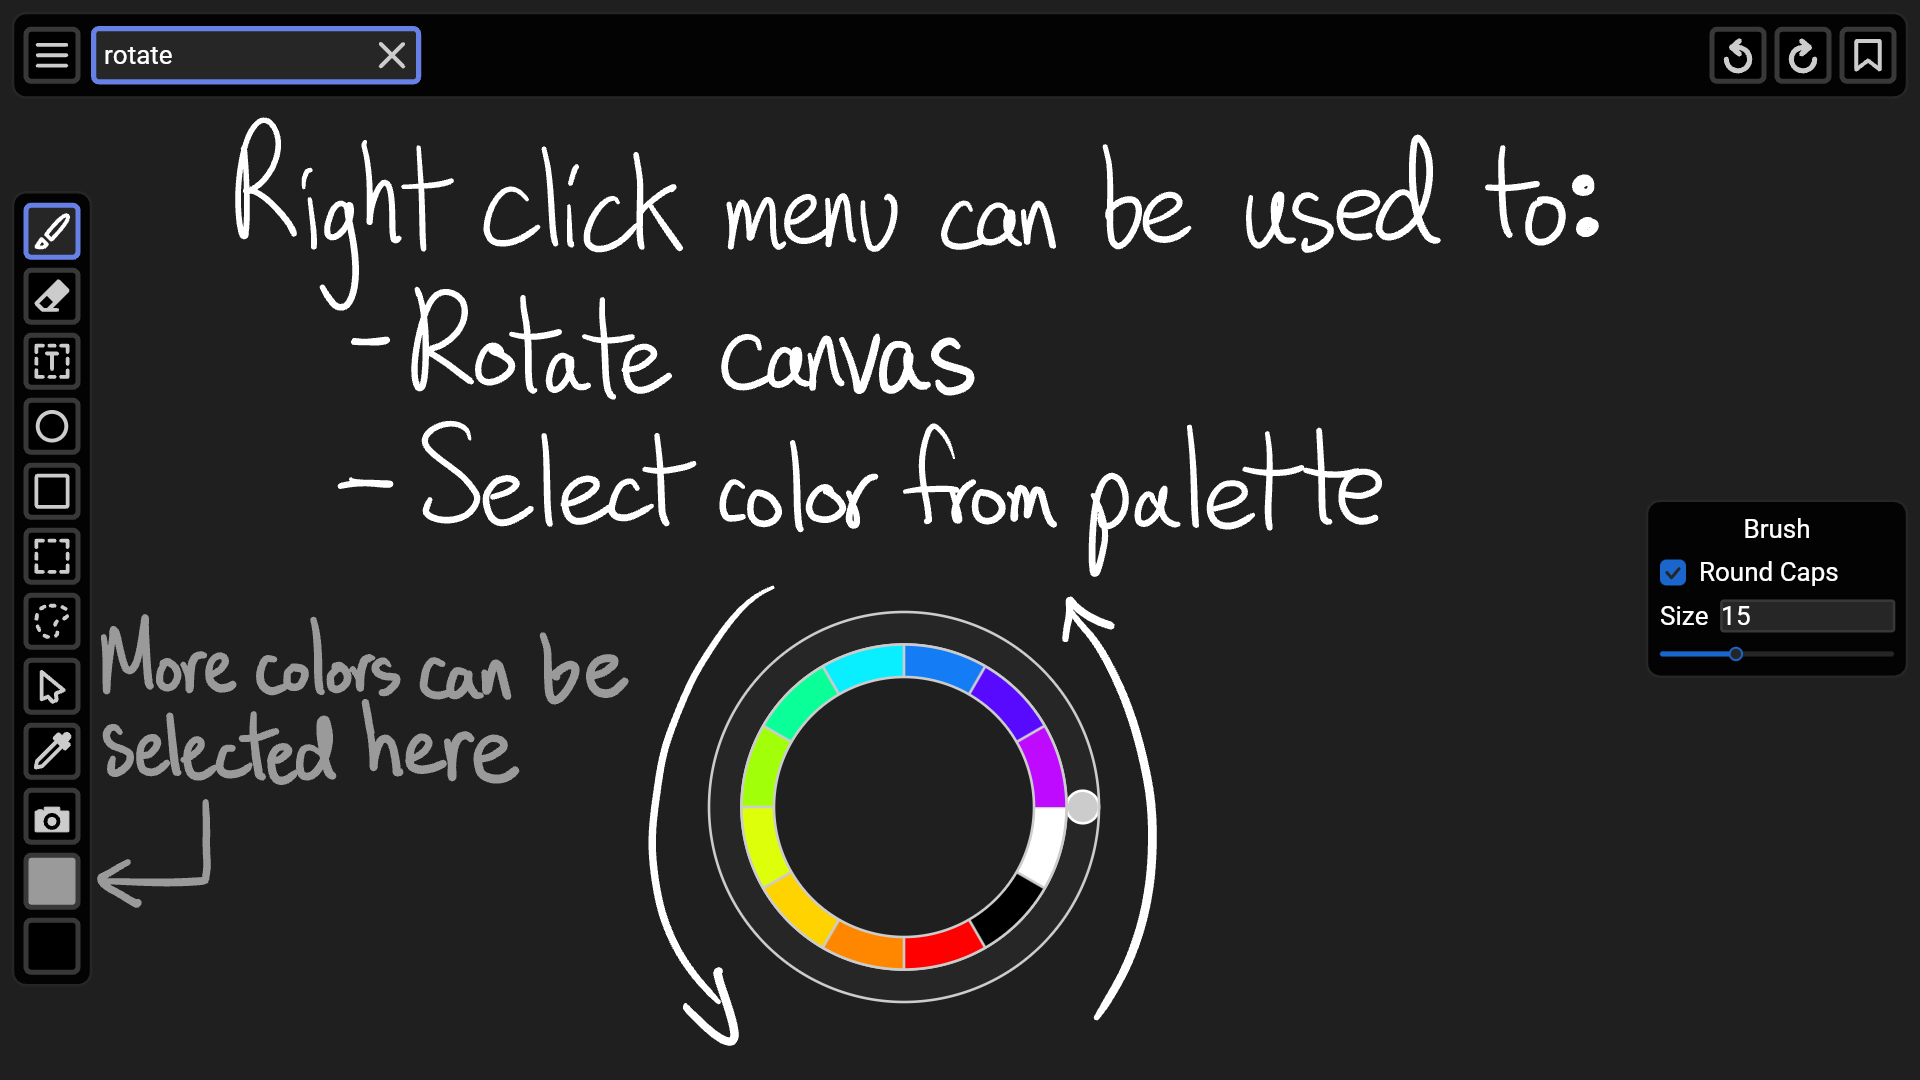
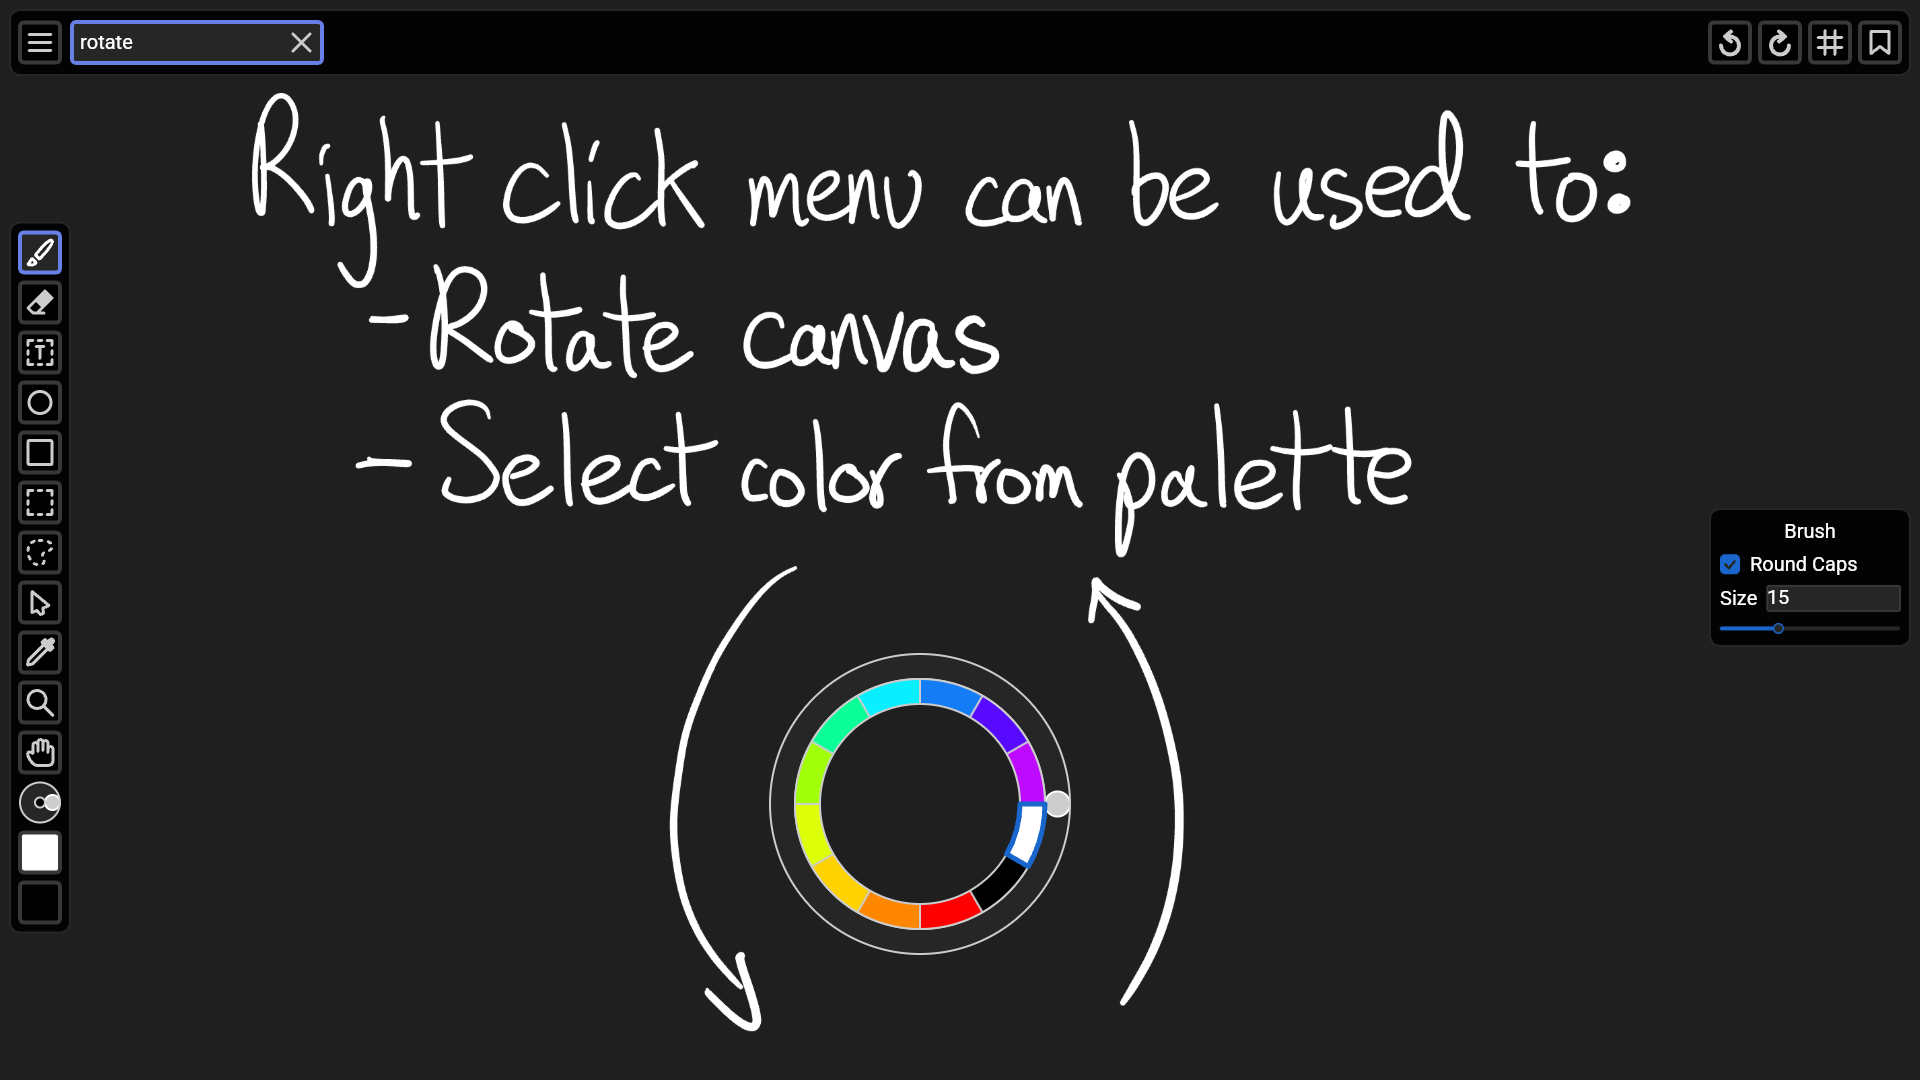
Updating README, MANUAL, and showcase images for v0.2.0

Changed region(s): [[0.0, 0.0, 1.0, 0.9778], [0.8438, 0.4583, 1.0, 0.6417]]

diff --git a/README.md b/README.md
@@ -17,7 +17,7 @@
 
 ## InfiniPaint
 
-InfiniPaint is a **collaborative, infinite** canvas note-taking/drawing app. Unlike many other infinite canvas apps, although there is a specific zoom-in level limit, there is **no zoom-out limit** (at least up until the point your computer runs out of memory). This means that this app is very good at things such as drawing sketches of the solar system to scale, or just drawing any massive objects with tiny details. Of course, even though this is a feature, this app is also perfectly well suited for use as a normal canvas.
+InfiniPaint is a **collaborative, infinite** canvas note-taking/drawing app. Unlike many other infinite canvas apps, **there is no zoom-in or zoom-out limit** (at least up until the point your computer runs out of memory). This means that this app is very good at things such as drawing sketches of the solar system to scale, or just drawing any massive objects with tiny details. Of course, even though this is a feature, this app is also perfectly well suited for use as a normal canvas.
 
 You can try the web version of this app at [infinipaint.com](https://infinipaint.com) (requires a WebGL2 capable browser). The web version was compiled from C++ to Javascript using Emscripten, and may contain some bugs, so if possible, please consider downloading the native version for a better experience.
 
@@ -25,8 +25,10 @@ This app was inspired by [Lorien](https://github.com/mbrlabs/Lorien), another gr
 
 ## Screenshots/GIFs
 
+<img alt="Zoom Forever Showcase" src="https://github.com/ErrorAtLine0/infinipaint/blob/main/docs/showcase/zoomforever.png?raw=true" width="100%"/>
 <img alt="Sketches Showcase" src="https://github.com/ErrorAtLine0/infinipaint/blob/main/docs/showcase/sketches.png?raw=true" width="100%"/>
 <img alt="Online Collaboration Showcase" src="https://github.com/ErrorAtLine0/infinipaint/blob/main/docs/showcase/tictactoe.png?raw=true" width="100%"/>
+<img alt="Images Showcase" src="https://github.com/ErrorAtLine0/infinipaint/blob/main/docs/showcase/images.png?raw=true" width="100%"/>
 <img alt="Right Click Menu Showcase" src="https://github.com/ErrorAtLine0/infinipaint/blob/main/docs/showcase/rotate.png?raw=true" width="100%"/>
 <img alt="Zoom Showcase" src="https://github.com/ErrorAtLine0/infinipaint/blob/main/docs/showcase/zoom.gif?raw=true" width="100%"/>
 <img alt="Bookmark Showcase" src="https://github.com/ErrorAtLine0/infinipaint/blob/main/docs/showcase/bookmarkslideshow.gif?raw=true" width="100%"/>
@@ -46,14 +48,16 @@ This app was inspired by [Lorien](https://github.com/mbrlabs/Lorien), another gr
 	- Rotate the canvas
 - Place bookmarks on the canvas to jump to later
 - Undo/Redo
-- PNG, JPG, WEBP export of specific parts of the canvas at any resolution (Screenshot Tool)
+- PNG, JPG, WEBP export of specific parts of the canvas at any resolution (Screenshot)
+- SVG export of specific parts of the canvas (Screenshot)
 - Transform (Move, Scale, Rotate) any object on the canvas (Rectangle Select Tool/Lasso Select Tool)
 - Display Images and animated GIFs on the canvas
 	- Note: May take a lot of memory to store and display images compared to other objects, especially GIFs
 - Hide (or unhide) the UI by pressing Tab
 - Remappable keybinds
 - Create custom UI themes
-- Static square grid at initial zoom level
+- Place infinite square grids on the canvas as guides for drawing
+    - Grids come with various properties, including changing color, and displaying coordinate axes.
 - Other tools: Textbox, Rectangle, Circle, Eye dropper/color picker, Edit/cursor
 - Can copy/paste selected objects (Ctrl-C Ctrl-V). This can also be done between different files, as long as they're open in different tabs in the same window.
-- Any file can be placed on the canvas, and using the edit tool, you can download any file/image on the canvas to your computer. This can be used as a sort of file sharing mechanism in a collaborative canvas (should probably only use this for small files...)
+- Any file can be placed on the canvas. Using the edit tool, you can download any file/image on the canvas to your computer. This can be used as a sort of file sharing mechanism in a collaborative canvas (should probably only use this for small files...)

diff --git a/docs/MANUAL.md b/docs/MANUAL.md
@@ -53,16 +53,20 @@
 	- Once <kbd>LMB</kbd> is released, the objects will be selected
 	- The tool is otherwise identical to the Rectangle Select Tool
 - Edit/Cursor Tool
-	- You can click on any object except a brush stroke to edit it when this tool is selected. Any relevant properties to the object will pop up on the right when you select it
+	- You can click on any object except a brush stroke to select it when this tool is selected
+    - Double click on any object to start editing it. The object's relavant properties will be displayed on the right
 	- If an image/file on the canvas is clicked with this tool, you can download the file to your computer
 - Color Select Tool (Eyedropper)
 	- Click anywhere on the canvas with this tool to copy the color of the cursor's position
-- Screenshot Tool
-	- Hold <kbd>LMB</kbd> and drag the mouse to select an area to take a screenshot of
-	- You can modify the screenshot area after placing it by dragging the cyan circles on the boundaries of the rectangle
-	- Click anywhere outside of the circles to cancel the screenshot
-	- You can change the dimensions of the screenshot, the file format of the screenshot, and later take the screenshot with the menu on the right. The dimensions can be anything, as long as they fit the aspect ratio of the screenshot area (the program will do this automatically), and as long as they aren't bigger than what the file format or your computer's memory allows
-	- Note: Even though creating extremely large images is possible with this tool, I cannot guarantee that the program you use to display the image later won't crash if the image is too large!
+    - You can choose to select either the stroke color, or fill color
+## Screenshots
+- Start taking a screenshot by going to Menu->Take Screenshot
+- Hold <kbd>LMB</kbd> and drag the mouse to select an area to take a screenshot of
+- You can modify the screenshot area after placing it by dragging the cyan circles on the boundaries of the rectangle
+- Click anywhere outside of the circles to cancel the screenshot
+- You can change the dimensions of the screenshot, the file format of the screenshot, and later take the screenshot with the menu on the right. The dimensions can be anything, as long as they fit the aspect ratio of the screenshot area (the program will do this automatically), and as long as they aren't bigger than what the file format or your computer's memory allows
+- You can export to SVG, JPG, PNG, or WEBP. In the case of SVG, grids can't be displayed, and resolution can't be changed.
+- Note: Even though creating extremely large images is possible with this tool, I cannot guarantee that the program you use to display the image later won't crash if the image is too large!
 ## Bookmarks
 - You can open the bookmark window by clicking the bookmark icon on the very top right of the screen
 - Move your camera to the place you want to bookmark, give the bookmark a name in the given textbox, and press the + button next to the textbox
